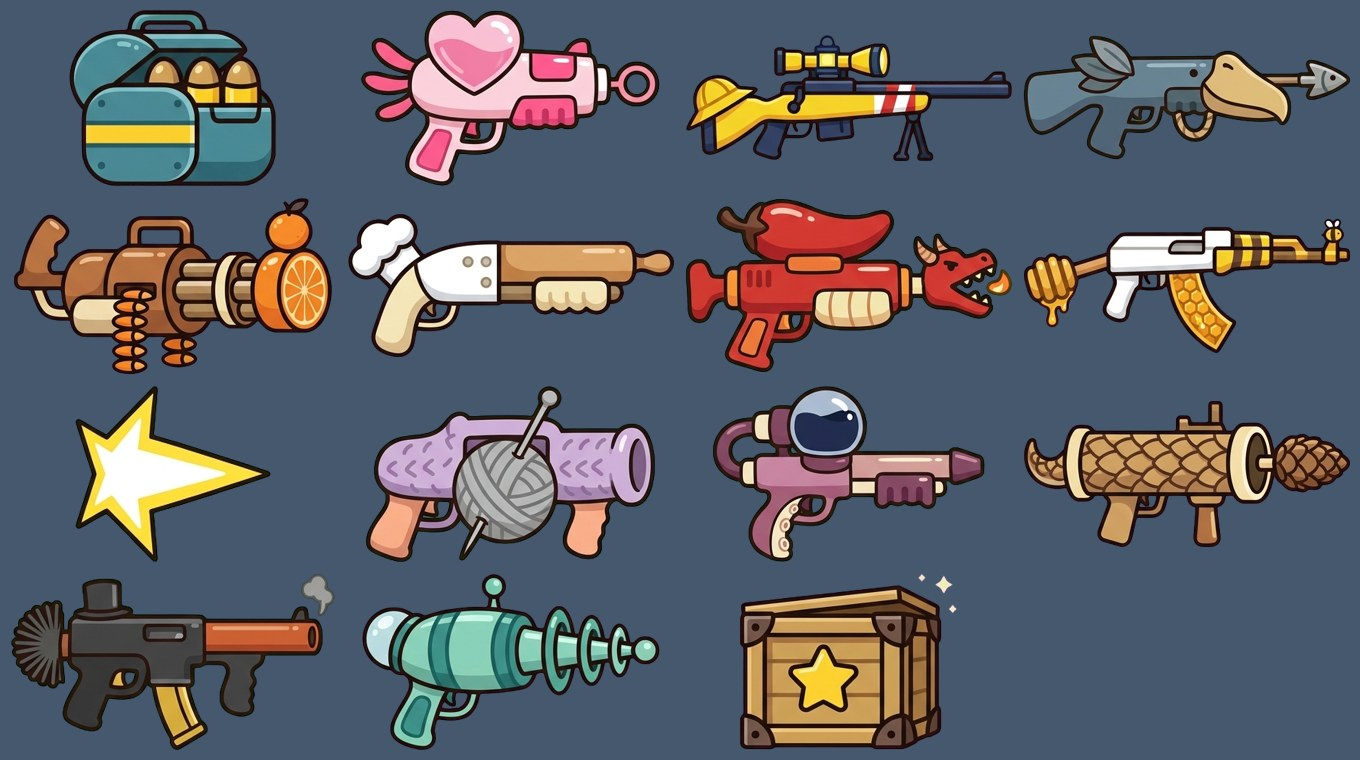
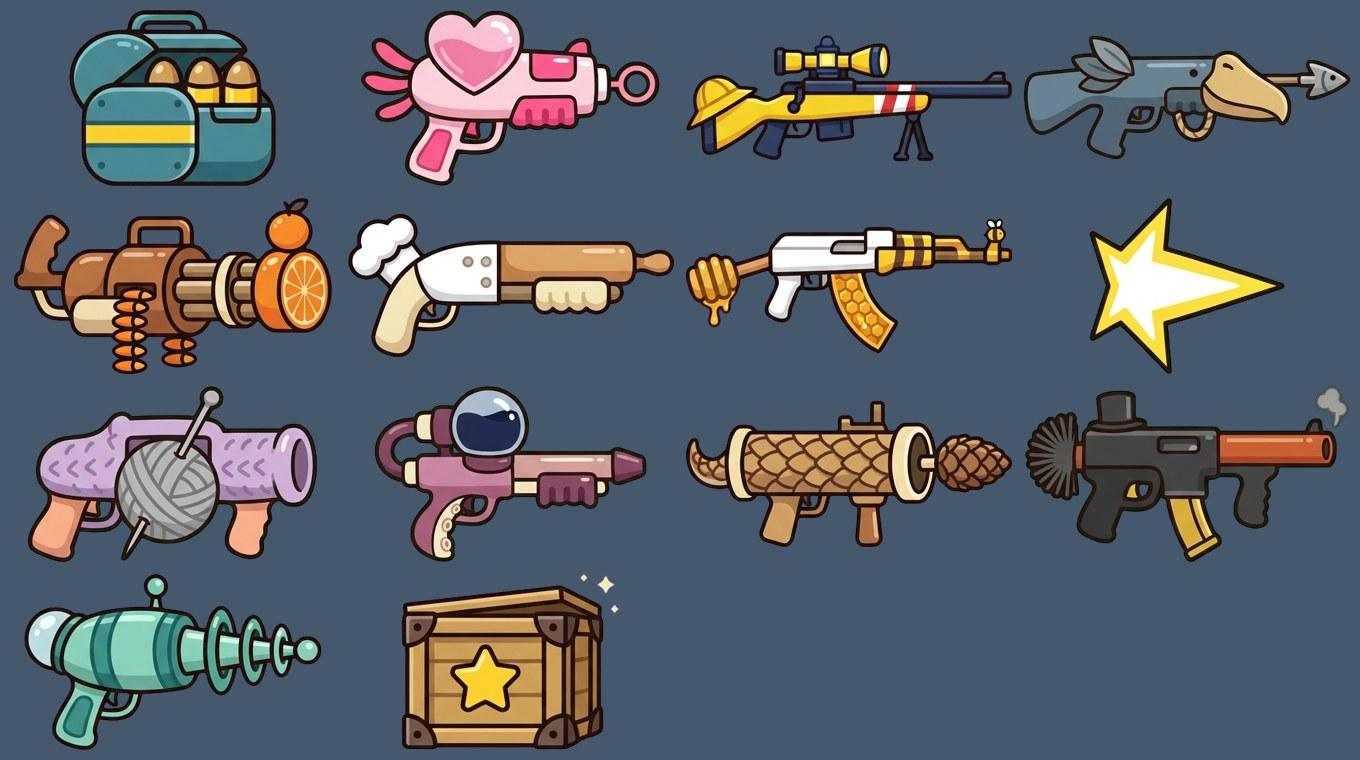
Remove Dragon
Claude-Session: https://claude.ai/code/session_01EhkagRdaEkRKXUjDzP8ARK

Changed region(s): [[0.0, 0.4842, 1.0, 0.9987], [0.4941, 0.2421, 1.0, 0.4842], [0.525, 0.7566, 0.7103, 0.9987]]

diff --git a/README.md b/README.md
@@ -29,7 +29,6 @@ Art assets for the brawler game.
 | Bill | shoebill | stare stun |
 | Tardi | tardigrade | tank |
 | Octo | octopus | ink squirt |
-| Dragon | baby dragon | fire puff |
 
 ![All brawlers](brawlers/_overview.png)
 
@@ -58,7 +57,6 @@ Every brawler has its own gun, skinned in its own colors.
 | Octo | Ink Soaker | ink blob | mid range, slows |
 | Nana | Slipper Launcher | slipper | mid range, small splash |
 | Dough | Rolling-Pin Shotgun | dough balls | short range, strong up close |
-| Dragon | Chili Flamethrower | fireball | short range, burn |
 | Capy | Citrus Minigun | orange slices | heavy, spin-up, slow walk |
 | Axo | Bubble Blaster | heart bubble | support, heals teammates |
 
@@ -83,9 +81,9 @@ and run it again.
 | `movement/` | `walk_dust`, `run_dust`, `landing_puff`, `speed_lines` |
 | `hit/` | `hit_spark`, `impact_burst`, `slash_arc`, `critical_hit` |
 | `defeat/` | `smoke_poof`, `star_pop`, `soul_wisp`, `sparkle_ring` |
-| `attacks/` | `beam_light`, `dough_flour`, `soot_cloud`, `honey_bees`, `nana_slipper`, `capy_bonk`, `axo_heart`, `pango_dust`, `bill_shockwave`, `tardi_bubble`, `octo_ink`, `dragon_fire` |
+| `attacks/` | `beam_light`, `dough_flour`, `soot_cloud`, `honey_bees`, `nana_slipper`, `capy_bonk`, `axo_heart`, `pango_dust`, `bill_shockwave`, `tardi_bubble`, `octo_ink` |
 | `support/` | `heal_sparkles`, `shield_up`, `spawn_poof`, `level_up` |
-| `weapons/` | `<brawler>_hit` for all 12 guns (3 frames: small, full, fading) |
+| `weapons/` | `<brawler>_hit` for all 11 guns (3 frames: small, full, fading) |
 | `spawn/` | `spawn_poof_white`, `spawn_poof_blue` (blue team), `spawn_poof_red` (red team), `spawn_poof_dust` (unit lands on the ground) |
 
 Each frame is centered in its cell, so travel (a slipper flying, a soul floating up, a beam moving right) is done by moving the sprite in the game. Effects that point somewhere point right; mirror them for left.
@@ -116,4 +114,4 @@ Castle Island: the castle base on the island is where brawlers spawn, four gates
 - 3 colors per brawler plus the dark outline.
 - 3/4 side view facing right (mirror the image for left).
 
-Note: the `brawlers/` PNGs are screen captures (about 507x681); Dragon is not in `brawlers/` (he uses the original art from the game).
+Note: the `brawlers/` PNGs are screen captures (about 507x681); 

diff --git a/HANDOFF.md b/HANDOFF.md
@@ -13,16 +13,16 @@ This repo (`zqh7y/Game_Assets2`, branch `main`) holds the art. Push finished wor
 ## What already exists (all done, don't redo)
 
 - `brawlers/` - reference art for Beam, Dough, Soot, Honey, Nana, Capy, Axo, Pango,
-  Bill, Tardi, Octo. Dragon is one of Artem's older originals and is not in this folder.
-  Peep and Spooky were removed from the repo on Artem's request (Nov 24) - don't add them back.
-- `cards/` - `<Name>_card.png` for all 12: transparent, arch-shaped gold-rim pick card
+  Bill, Tardi, Octo.
+  Peep, Dragon and Spooky (Artem's older originals) were removed from the repo on Artem's request (Nov 24) - don't add them back.
+- `cards/` - `<Name>_card.png` for all 11: transparent, arch-shaped gold-rim pick card
   with a name ribbon and a count badge.
-- `animations/<Name>/` - for all 12: `<Name>_sheet_right.png` and `_sheet_left.png`
+- `animations/<Name>/` - for all 11: `<Name>_sheet_right.png` and `_sheet_left.png`
   (transparent, 3 rows x 4 frames, uniform cells: row 1 walk, row 2 run, row 3 attack),
   GIFs for walk / run / attack in both directions, and `<Name>_preview.gif`.
   Timing used in the GIFs: walk 140 ms per frame, run 90 ms, attack 150 ms with the
   last frame held 450 ms.
-- `effects/<group>/` - 32 effects without characters. Per effect: `<name>_sheet.png`
+- `effects/<group>/` - 31 effects without characters. Per effect: `<name>_sheet.png`
   (4-frame strip: appear, grow, peak, fade), `<name>_1.png` to `<name>_4.png`,
   `<name>.gif`. Groups: `movement`, `hit`, `defeat`, `attacks`, `support`, `spawn`
   (POOF bursts for when a brawler appears: white, blue team, red team, ground dust).
@@ -65,7 +65,6 @@ This repo (`zqh7y/Game_Assets2`, branch `main`) holds the art. Push finished wor
 | Bill | shoebill | stare stun | `bill_shockwave` |
 | Tardi | tardigrade | tank | `tardi_bubble` |
 | Octo | octopus | ink squirt | `octo_ink` |
-| Dragon | baby dragon | fire puff | `dragon_fire` |
 
 ## Artem's design laws (never break these)
 
